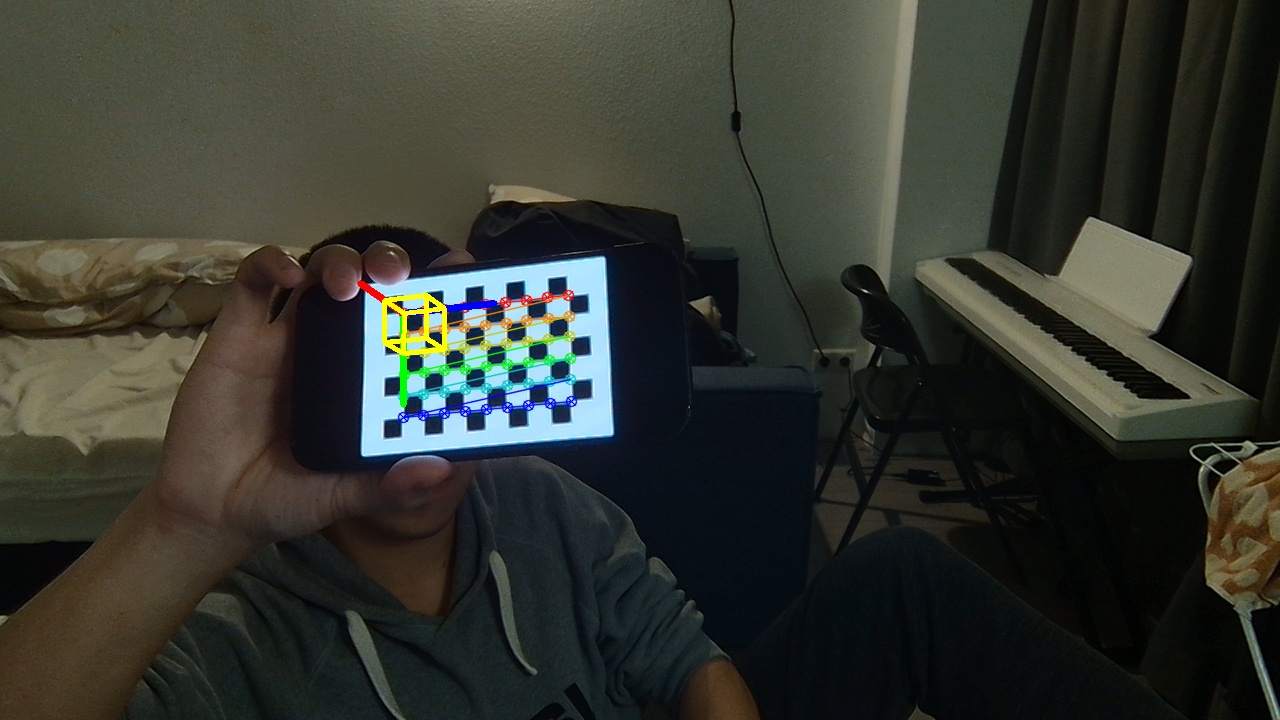
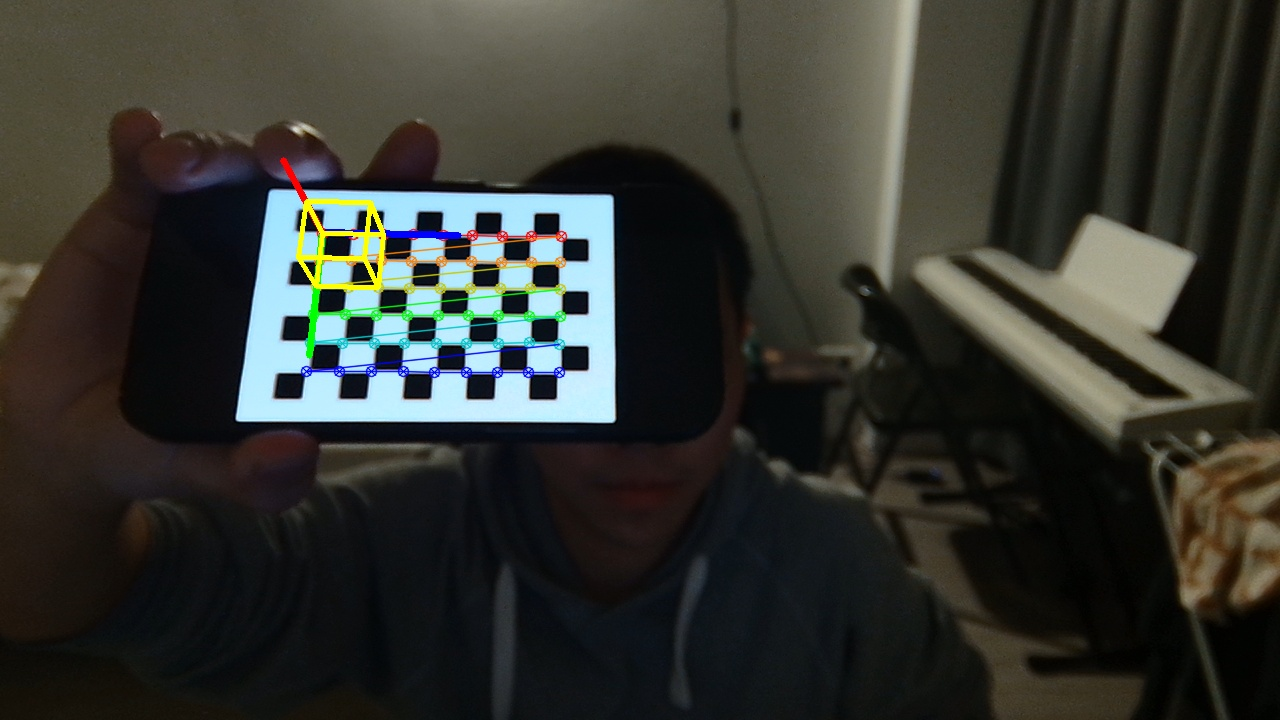
feat: add reduce light reflection & quality filter

diff --git a/manually_process/utils.py b/manually_process/utils.py
@@ -49,7 +49,8 @@ def interpolate_chessboard_corners(corners, param):
     sub_work_coord = np.array(sub_work_coord, np.float32)
     res = cv2.perspectiveTransform(sub_work_coord.reshape(-1, 1, 2), M)
     # show the chessboard grid
-    gray = cv2.cvtColor(_image, cv2.COLOR_BGR2GRAY)
+    enhanced_img = reduce_light_reflections(_image)
+    gray = cv2.cvtColor(enhanced_img, cv2.COLOR_BGR2GRAY)
     corners = np.array(res, np.float32)
     image_points = cv2.cornerSubPix(gray, corners, (11, 11), (-1, -1), criteria)
 
@@ -118,12 +119,87 @@ def manually_find_corner_points(img_path, config):
 
 
 def save_params(_parameter_file_path, _object_points_list, _image_points_list, _dimension):
-    # TODO: quality filter
-    ret, mtx, dist, rvecs, tvecs = cv2.calibrateCamera(_object_points_list, _image_points_list, _dimension, None, None)
+    # Filter out bad images
+    filtered_object_points, filtered_image_points, ret, mtx, dist, rvecs, tvecs = filter_bad_images(
+        _object_points_list, _image_points_list, _dimension
+    )
+    # Save the parameters to a file
     np.save('{}/mtx.npy'.format(_parameter_file_path), mtx)
     np.save('{}/dist.npy'.format(_parameter_file_path), dist)
     np.save('{}/rvecs.npy'.format(_parameter_file_path), rvecs)
     np.save('{}/tvecs.npy'.format(_parameter_file_path), tvecs)
+
+
+def filter_bad_images(_object_points_list, _image_points_list, _dimension, max_reprojection_error=0.25):
+    """
+    Iteratively calibrates the camera using the provided object and image points,
+    removing the image points with the highest reprojection error until all remaining
+    images have a reprojection error below the specified threshold.
+
+    Parameters:
+    - _object_points_list: List of object points
+    - _image_points_list: List of image points corresponding to object points
+    - _dimension: Dimension (width, height) of the images
+    - max_reprojection_error: Maximum allowed reprojection error
+
+    Returns:
+    - object_points_filtered: Filtered list of object points
+    - image_points_filtered: Filtered list of image points
+    - ret: The overall RMS re-projection error
+    - mtx: Camera matrix
+    - dist: Distortion coefficients
+    - rvecs: Rotation vectors
+    - tvecs: Translation vectors
+    """
+    # Ensure the lists are numpy arrays for easier indexing
+    object_points_array = np.array(_object_points_list)
+    image_points_array = np.array(_image_points_list)
+    count = 0
+    while True:
+        # Calibrate the camera using the current sets of points
+        ret, mtx, dist, rvecs, tvecs = cv2.calibrateCamera(object_points_array, image_points_array, _dimension, None, None)
+
+        # Calculate the reprojection errors for each image
+        max_error = 0
+        max_error_index = -1
+        for i in range(len(object_points_array)):
+            imgpoints2, _ = cv2.projectPoints(object_points_array[i], rvecs[i], tvecs[i], mtx, dist)
+            error = cv2.norm(image_points_array[i], imgpoints2, cv2.NORM_L2)/len(imgpoints2)
+            # print("Reprojection error for image {}: {}".format(i, error))
+            if error > max_error:
+                max_error = error
+                max_error_index = i
+
+        # If the max error is below the threshold or we have one image left, break
+        if max_error < max_reprojection_error or len(object_points_array) == 1:
+            break
+
+        # Remove the point set with the highest error
+        object_points_array = np.delete(object_points_array, max_error_index, axis=0)
+        image_points_array = np.delete(image_points_array, max_error_index, axis=0)
+        count += 1
+        print("Removed image with projection error {}".format(max_error))
+
+    print("Filtered {} images with high projection error".format(count))
+    return object_points_array.tolist(), image_points_array.tolist(), ret, mtx, dist, rvecs, tvecs
+
+
+def reduce_light_reflections(image, brightness_reduction=5):
+    # 将图片从BGR转换到HSV色彩空间
+    hsv = cv2.cvtColor(image, cv2.COLOR_BGR2HSV)
+
+    # 分割HSV通道
+    h, s, v = cv2.split(hsv)
+
+    # 减少亮度通道的亮斑（可通过降低亮度值实现）
+    v = np.clip(v - brightness_reduction, 0, 255)
+
+    # 合并通道
+    final_hsv = cv2.merge((h, s, v))
+
+    # 将HSV转换回BGR色彩空间
+    final_image = cv2.cvtColor(final_hsv, cv2.COLOR_HSV2BGR)
+    return final_image
 
 
 def get_image_points(file_name, _config):
@@ -137,8 +213,9 @@ def get_image_points(file_name, _config):
     else:
         file_name_index = file_name.split('/')[-1]
     img = cv2.imread(file_name)
-    # TODO enhance the image quality input
-    gray = cv2.cvtColor(img, cv2.COLOR_BGR2GRAY)
+
+    enhanced_img = reduce_light_reflections(img)
+    gray = cv2.cvtColor(enhanced_img, cv2.COLOR_BGR2GRAY)
     ret, corners = cv2.findChessboardCorners(gray, pattern_size, None)
 
     if ret:
@@ -205,8 +282,8 @@ def draw_cube(frame, origin, step, _config, rvecs, tvecs, mtx, dist):
         cv2.line(frame, tuple(imgpts[i]), tuple(imgpts[j]), (0, 255, 255), 3)
 
 
-def draw_chessboard(frame, object_points, step, _config):
-    gray = cv2.cvtColor(frame, cv2.COLOR_BGR2GRAY)
+def draw_chessboard(enhanced_img, frame, object_points, step, _config):
+    gray = cv2.cvtColor(enhanced_img, cv2.COLOR_BGR2GRAY)
     # Find the chess board corners
     ret, corners = cv2.findChessboardCorners(gray, (_config["width"], _config["height"]), None,
                                              cv2.CALIB_CB_ADAPTIVE_THRESH
@@ -282,8 +359,9 @@ def get_webcam_snapshot(step, _config, width=1280, height=720):
         if not ret:
             print("can not receive frame (stream end?). Exiting...")
             break
+        enhanced_img = reduce_light_reflections(frame)
         # draw the chessboard
-        draw_chessboard(frame, objp, step, _config)
+        draw_chessboard(enhanced_img, frame, objp, step, _config)
         cv2.imshow('Webcam Capture for Online Run {}'.format(1), frame)
         # 按下'q'键退出循环
         if cv2.waitKey(1) & 0xFF == ord(' '):

diff --git a/OfflineRun/offline_run.py b/OfflineRun/offline_run.py
@@ -28,7 +28,8 @@ def offlineRun(task, _config):
     object_points_list = []
     image_points_list = []
     parameter_file_path = 'parameters/offline-run-{}'.format(task)
-    print("Offline Run {} Start".format(task))
+    print("\n"
+          "Offline Run {} Start".format(task))
     if task == 1:
         images_list = glob.glob(_config['images_folder_path'] + _config['image_format'])
     elif task == 2:
